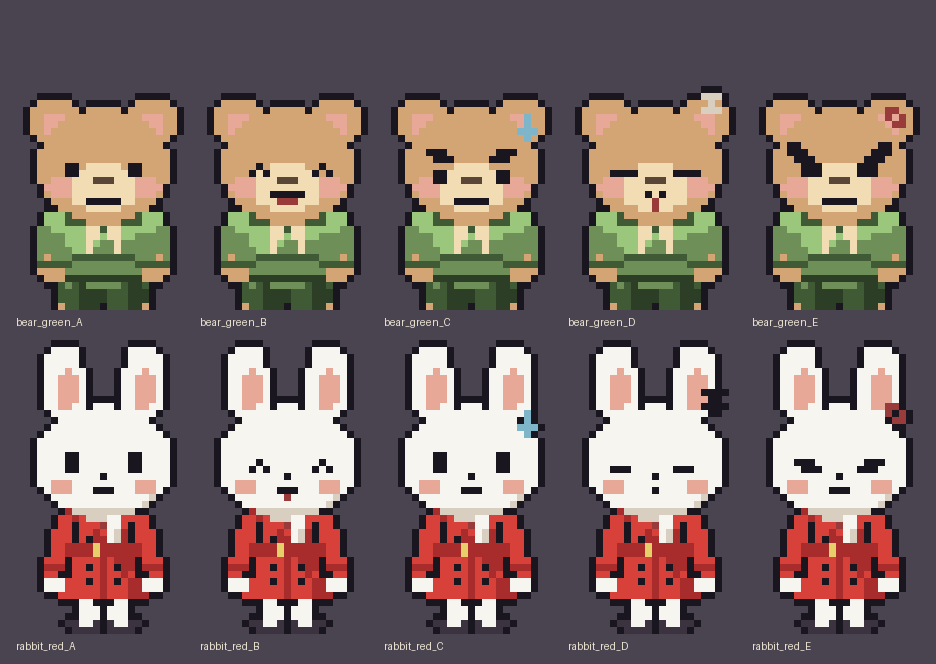
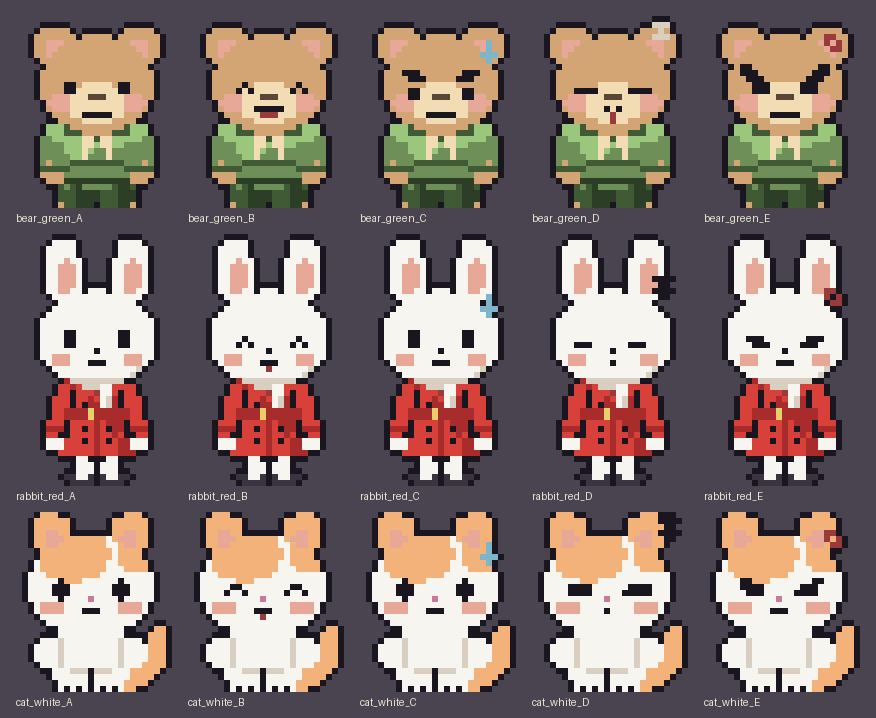
Finalize white cat (cat_white_A..E) in objects.txt, per-sprite PNGs, combined helper sheet, spec note
Claude-Session: https://claude.ai/code/session_01FPZSaKiVNU2zED737yZX4w

diff --git a/tools/gen_cutecat.py b/tools/gen_cutecat.py
@@ -63,18 +63,11 @@ def cat2(expr):
     c.line(12, 26.6, 12, 29.8, 1, ch='k')                                                                   # 두 다리 사이 검은 선
     for x in (8, 10, 14, 16): c.put(x, 29.4, 'k')                                                          # 발가락 선
     c.line(7.2, 21.4, 7.2, 25.2, 1, ch='w'); c.line(16.8, 21.4, 16.8, 25.2, 1, ch='w')                    # 앞발과 몸통 경계의 옅은 선
-    c.ell(5.6, 3.6, 3.3, 3.8, 'q'); c.ell(18.4, 3.6, 3.3, 3.8, 'P'); c.ell(4.8, 1.6, 2.0, 2.0, 'q'); c.ell(19.2, 1.6, 2.0, 2.0, 'P')   # 둥근 귀(왼쪽 크림, 오른쪽 살구)
+    c.ell(5.6, 3.6, 3.3, 3.8, 'P'); c.ell(18.4, 3.6, 3.3, 3.8, 'P'); c.ell(4.8, 1.6, 2.0, 2.0, 'P'); c.ell(19.2, 1.6, 2.0, 2.0, 'P')   # 둥근 귀
     c.ell(5.8, 3.8, 1.3, 1.7, 'i'); c.ell(18.2, 3.8, 1.3, 1.7, 'i')
     c.ell(12, 12.0, 10.4, 8.4, 'W')
-    for y in range(30):                                                                                    # 얼룩: 왼쪽은 연한 크림, 오른쪽은 진한 살구, 경계는 비스듬하고 울퉁불퉁하게
-        for x in range(26):
-            if c.g[y][x] != 'W': continue
-            wob = 0.8 * ((x * 7 + y * 3) % 3 - 1)
-            if y < 10.6 - (x - 3) * 0.55 + wob and x < 13.5: c.g[y][x] = 'q'                               # 왼쪽 큰 얼룩(눈 위로 흘러내림)
-            elif y < 6.0 + (x - 16) * 0.35 + wob and x >= 14.5: c.g[y][x] = 'P'                            # 오른쪽 살구색 얼룩
-    for y in range(8, 11):                                                                                 # 왼쪽 눈 옆으로 늘어진 작은 얼룩 끝
-        for x in range(2, 6):
-            if c.g[y][x] == 'W': c.g[y][x] = 'q'
+    patch(c, 9.0, 6.6, 6.2, 4.6, 'P')                                                                       # 머리 위쪽(왼쪽 치우침)의 살구색 얼룩
+    patch(c, 19.5, 6.0, 3.4, 3.4, 'P')
     for sx in (-1, 1): c.ell(12 + sx * 6.8, 15.6, 2.2, 1.4, 'i')                                            # 분홍 볼터치
     c.put(12, 14.0, 'p')
     if expr == 'A':
@@ -107,4 +100,17 @@ def main():
     lines = ['# 흰 고양이 표정 5종 (tools/gen_cutecat.py 가 생성함)', '']
     for v in 'ABCDE': lines.append(f'[cat_{v}] {notes[v]} | {v}'); lines += cat2(v); lines.append('')
     open(os.path.join(root, 'cutecat2_pixels.txt'), 'w', encoding='utf-8').write('\n'.join(lines))
-if __name__ == '__main__': main()
+def export_final():
+    """확정안(흰 고양이)을 art/objects.txt 에 cat_white_A..E 로 넣는다."""
+    path = os.path.join(os.path.dirname(__file__), '..', 'art', 'objects.txt')
+    notes = {'A': '기본(입 일자)', 'B': '웃음', 'C': '걱정(입 일자)', 'D': '졸림', 'E': '화남(입 일자)'}
+    blocks = [f'[cat_white_{v}] 말랑한 고양이(흰 털, 살구색 얼룩) {notes[v]} | dream\n' + '\n'.join(cat2(v)) + '\n' for v in 'ABCDE']
+    keep, skip = [], False
+    for line in open(path, encoding='utf-8').read().split('\n'):
+        if line.startswith('['): skip = line.startswith('[cat_white')
+        if not skip: keep.append(line)
+    open(path, 'w', encoding='utf-8').write('\n'.join(keep).rstrip('\n') + '\n\n' + '\n'.join(blocks))
+
+if __name__ == '__main__':
+    if len(sys.argv) > 1 and sys.argv[1] == 'final': export_final()
+    else: main()

diff --git a/docs/superpowers/specs/2026-11-14-stopped-clock-design.md b/docs/superpowers/specs/2026-11-14-stopped-clock-design.md
@@ -268,3 +268,5 @@
 - `art/objects.txt` 에 `bear_green_A..E` 로 저장됨. 생성기: `python3 tools/gen_cutebear.py final` (곰과 토끼를 함께 다시 만든다).
 - 레퍼런스 이미지(상업 캐릭터)를 직접 도트로 옮긴 것은 `art/out/pixelize/` 에 참고용으로만 두고, 게임에 쓰는 것은 오리지널 디자인.
 - 토끼: 레퍼런스 도트화의 비율(큰 둥근 머리, 길고 하얀 귀, 점 눈, 작은 흰 발)을 가져와 흰 피부 + 붉은 더블 트렌치코트(허리 벨트, 검은 단추 두 줄, 줄무늬 스카프) + 둥근 귀, 귀 밑 빨간 리본·옅은 볼터치·속눈썹으로 여자 캐릭터, 입 일자로 `rabbit_red_A..E`(24x40) 표정 5종. **확정**(사용자). 표정 5종, 24x42. 낱장 PNG는 `art/out/final/`. (처음에는 곰 틀을 색만 바꿔 만들어 사용자가 지적함. 지금 것은 토끼 전용으로 다시 그림.)
+
+- 고양이: 레퍼런스(주황 태비, 흰 고양이) 도트화에서 비율을 가져온 오리지널. **흰 고양이(살구색 얼룩, 머리 위쪽과 꼬리) 확정**, 표정 5종, 26x30, 다리 선명. `art/objects.txt` 의 `cat_white_A..E`, 낱장 PNG는 `art/out/final/`. 주황 태비 시안(`art/variants/cutecat_pixels.txt`)은 보관. 생성기: `python3 tools/gen_cutecat.py final`.
